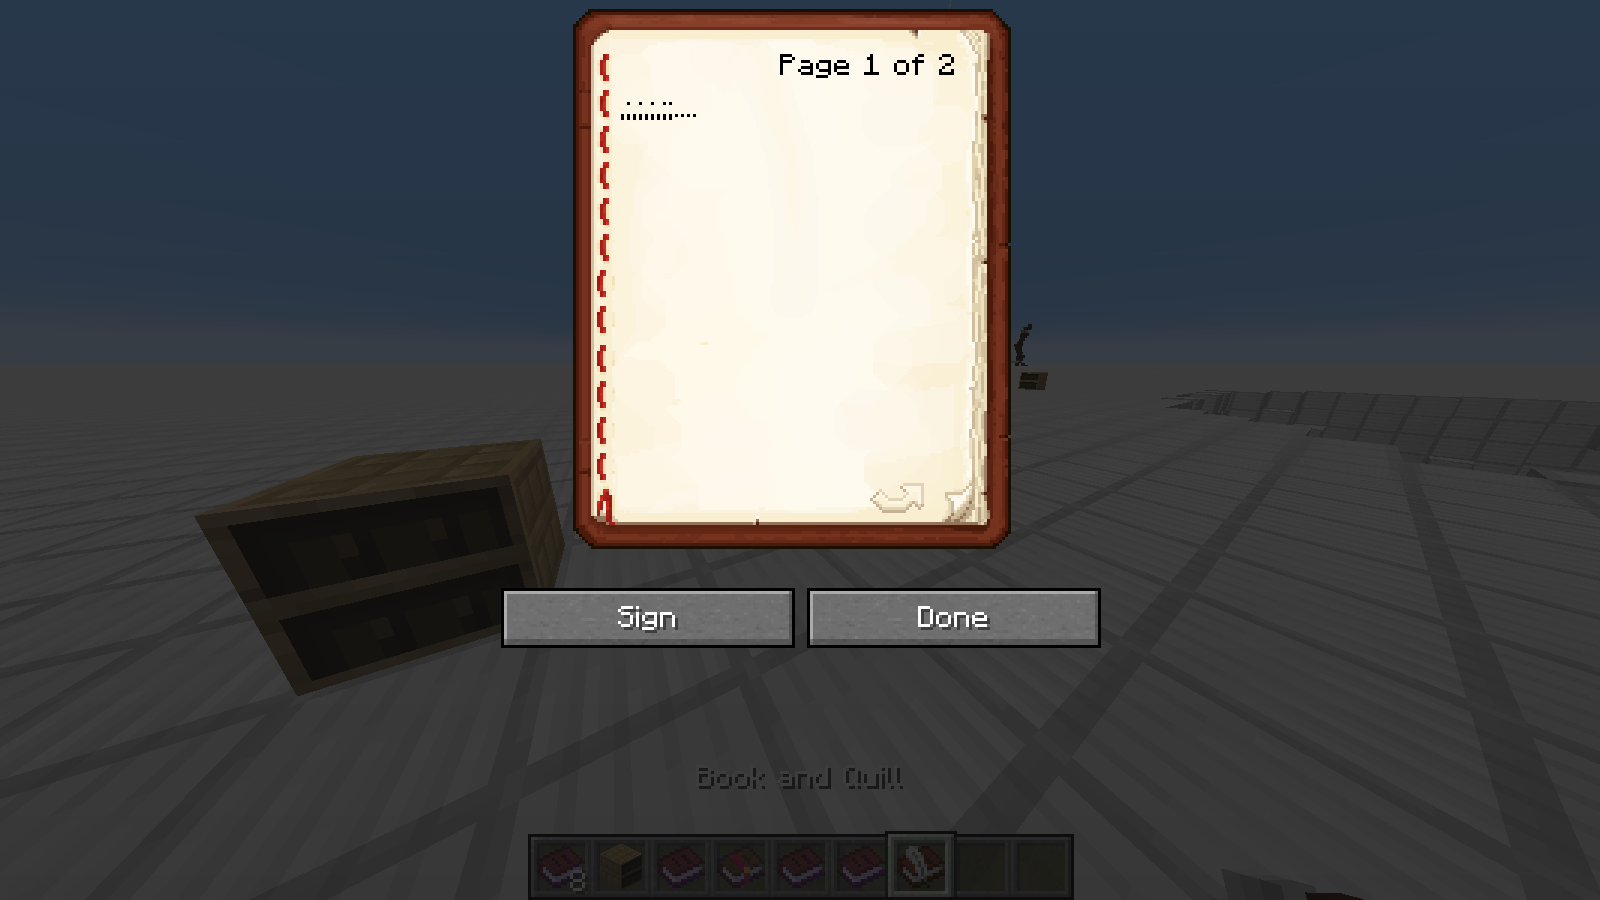
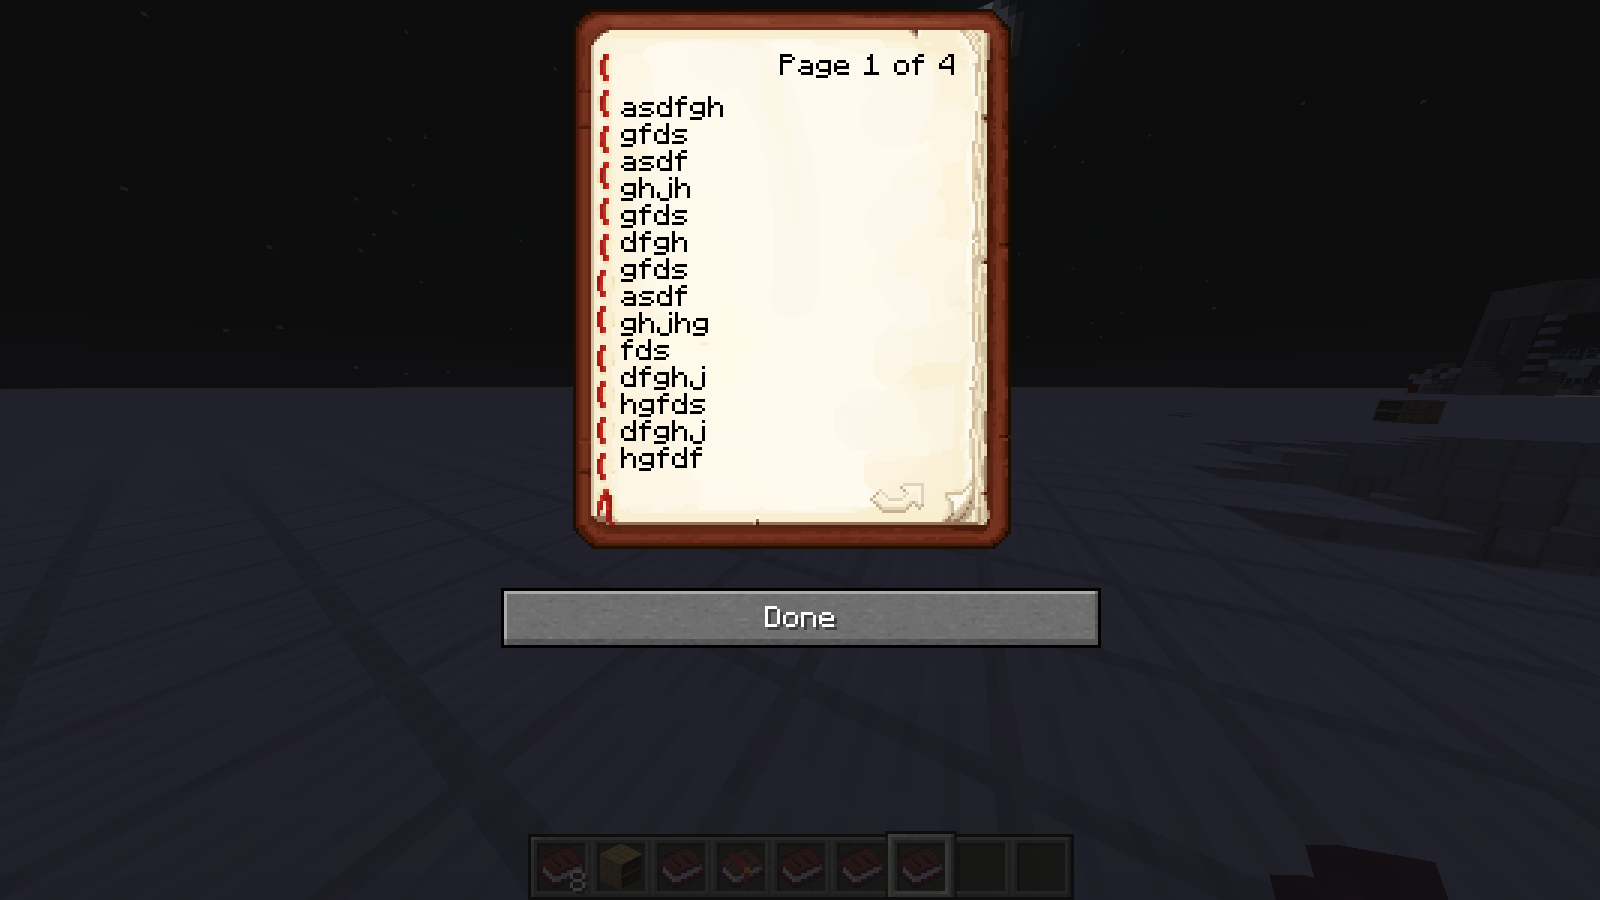
reads book and saves

diff --git a/src/main/java/org/bookreader/BookReader.java b/src/main/java/org/bookreader/BookReader.java
@@ -4,11 +4,13 @@ import javax.imageio.ImageIO;
 import java.awt.*;
 import java.awt.event.InputEvent;
 import java.awt.image.BufferedImage;
+import java.io.BufferedWriter;
 import java.io.File;
+import java.io.FileWriter;
 import java.io.IOException;
 
 public class BookReader {
-    public static final int MAX_CHARS_IN_ROW = 66;
+    public static final int MAX_CHARS_IN_ROW = 58;
     public static final int LINE_WIDTH = MAX_CHARS_IN_ROW * 2;
     public static final int LINE_HEIGHT = CharArrays.HEIGHT + 1;
     public static final int PIXEL_WIDTH = 3;
@@ -25,6 +27,18 @@ public class BookReader {
 
     public BookReader() {}
 
+    public void saveBook(String text)  {
+        Book book = new Book();
+        File file = new File("books/" + book.getTitle() + ".txt");
+        try {
+            FileWriter writer = new FileWriter(file);
+            BufferedWriter bufferedWriter = new BufferedWriter(writer);
+            bufferedWriter.write(text);
+            bufferedWriter.close();
+        } catch (IOException e) {
+            System.out.println(e + " " + e.getMessage());
+        }
+    }
     public void takeScreenshot() {
         try {
             Rectangle screenDimensions = new Rectangle(Toolkit.getDefaultToolkit().getScreenSize());
@@ -46,7 +60,18 @@ public class BookReader {
 
 
     public boolean hasNext() {
+        if (image == null) takeScreenshot();
         return (new RGB(image.getRGB(ARROW.x,ARROW.y)).isDark());
+    }
+
+    /** won't read the first page
+     *
+     * @return
+     */
+    public String readThisPage() {
+        takeScreenshot();
+        nextPage();
+        return processScreenshot();
     }
     /**
      * Click the nextPage button onscreen,
@@ -62,13 +87,14 @@ public class BookReader {
                 Thread.sleep(10);
                 clicker.mousePress(InputEvent.BUTTON1_DOWN_MASK);
                 clicker.mouseRelease(InputEvent.BUTTON1_DOWN_MASK);
+                Thread.sleep(50);
                 return true;
             } catch (AWTException | RuntimeException | InterruptedException e) {}
         }
         return false;
     }
 
-    public String processPage() {
+    public String processScreenshot() {
         StringBuilder stringBuilder = new StringBuilder();
         // go through each row
         for (int row = 0; row < ROWS; row++) {
@@ -125,6 +151,6 @@ public class BookReader {
             else break;
         }
         column += trueWidth;
-        return CharRecognition.recognize(array);
+        return CharRecognition.recognizeRisk(array, false);
     }
 }

diff --git a/src/main/java/org/bookreader/App.java b/src/main/java/org/bookreader/App.java
@@ -4,28 +4,13 @@ import java.awt.image.BufferedImage;
 
 public class App {
     public static void main(String[] args) throws InterruptedException {
-//        System.out.println(CharRecognition.recognizeRisk(CharArrays.getArray('j'),false));
         BookReader reader = new BookReader();
         Thread.sleep(4000);
-        Book book = new Book();
-        book.setTitle("");
-        reader.takeScreenshot();
-        reader.saveImage();
-        String page = reader.processPage();
-        reader.p(page);
-        reader.nextPage();
-
-        // await command to begin
-        // /readbook bookName
-        // Wait for a slash
-//        while(!key.isPressed("/")) {
-//            Thread.sleep(10);
-//        }
-//        while(true) {
-//            if(command.equals("readbook\n")) {
-//
-//            } else break;
-
-
+        StringBuilder stringBuilder = new StringBuilder();
+        stringBuilder.append(reader.readThisPage()).append("\n");
+        while (reader.hasNext()) {
+            stringBuilder.append(reader.readThisPage()).append("\n");
+        }
+        reader.saveBook(stringBuilder.toString());
     }
 }
